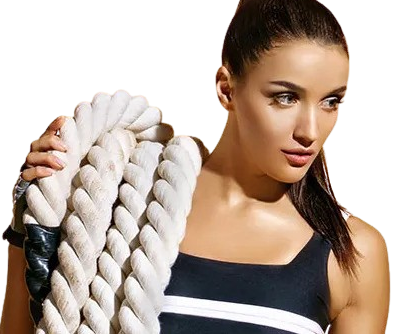
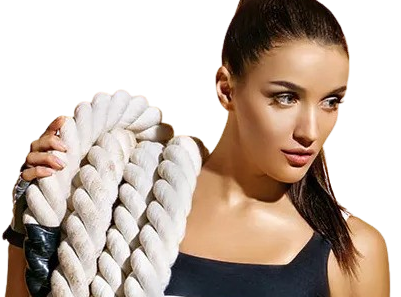
a4 changes done

diff --git a/Html CSS Assignments/Assignment 4/Task 1/style.css b/Html CSS Assignments/Assignment 4/Task 1/style.css
@@ -89,7 +89,7 @@ main{
     display: flex;
     flex-direction: column;
     justify-content: center;
-    gap: 15px;
+    gap: 10px;
     margin-left: 25px;
     margin-top: 10px;
 }
@@ -100,8 +100,11 @@ main{
     width: 80px;
     height: 50px;
 }
+.download-btn{
+    display: flex;
+}
 .download-btn img{
-    width: 145px;
+    width: 125px;
     height: 50px;
 }
 
@@ -113,9 +116,9 @@ main{
 .sub-center-top2{
     display: flex;
     flex-direction: column;
-    gap: 18px;
-    margin-left: 30px;
-    margin-top: 20px;
+    gap: 10px;
+    margin-left: 20px;
+    margin-top: 16px;
 }
 .heading-box1 p{
     font-size: 15px;
@@ -180,9 +183,9 @@ main{
 .sub-right-top{
     display: flex;
     flex-direction: column;
-    gap: 20px;
-    margin-left: 45px;
-    margin-top: 30px;
+    gap: 10px;
+    margin-left: 25px;
+    margin-top: 20px;
 }
 .right-color-box{
     display: flex;
@@ -199,10 +202,14 @@ main{
 .sub-right-top .head{
     display: flex;
     gap: 12px;
+    margin-left: 10px;
 }
 .sub-right-top .head p{
     font-size: 15px;
     font-weight: 600;
+}
+.sub-right-top .mid{
+    margin-left: 10px;
 }
 .sub-right-top .mid h1{
     font-size: 45px;
@@ -240,9 +247,9 @@ main{
 .sub-left-center{
     display: flex;
     flex-direction: column;
-    gap: 10px;
+    gap: 5px;
     margin-left: 25px;
-    margin-top: 15px;
+    margin-top: 10px;
 }
 .sub-left-center h2{
     line-height: 23px;
@@ -281,31 +288,29 @@ main{
 }
 .sub-left-btm{
     display: flex;
-    gap: 50px;
+    gap: 30px;
     margin-left: 25px;
     margin-top: 15px;
 }
 .trainer-profile{
     background-color: black;
-    height: 148px;
-    width: 260px;
+    height: 135px;
+    width: 245px;
     border-radius: 20px;
 
 } 
 .trainer-profile img{
-    width: 175px;
-    height: 123.5px;
+    width: 170px;
+    height: 112.5px;
     zoom:1.2;
 }
 .trainer-box{
-    margin-top: 5px;
     display: flex;
     flex-direction: column;
-    gap: 10px;
 }
 .sub-trainer-box{
     display: flex;
-    gap: 30px;
+    gap: 20px;
 }
 .tariner-count h1{
     font-size: 45px;
@@ -349,8 +354,8 @@ main{
 }
 .center-btm img{
     position: absolute;
-    width: 215px;
-    left: 15%;
+    width: 217px;
+    left: 11%;
 }
 
 
@@ -389,6 +394,6 @@ main{
 }
 .mobile{
     position: absolute;
-    left: 15%;
+    left: 10%;
     width: 250px;
 }

diff --git a/Html CSS Assignments/Assignment 4/Task 1/index.html b/Html CSS Assignments/Assignment 4/Task 1/index.html
@@ -41,7 +41,7 @@
         <div class="center-top1">
             <div class="sub-center-top1">
                 <img id="music" src="./Assets/music.png" alt="">
-                <h3>USE OUR APP FOR <br>COMPILING A QUALITY <br> WORKOUT!</h3>
+                <h3>USE OUR APP FOR COMPILING <br>A QUALITY WORKOUT!</h3>
                 <div class="download-btn">
                     <img src="./Assets/google-play.png" alt="">
                     <img src="./Assets/apple-store.png" alt="">

diff --git a/Html CSS Assignments/Assignment 4/Live_link.md b/Html CSS Assignments/Assignment 4/Live_link.md
@@ -1,0 +1,1 @@
+Task 1 : https://aditi173ras-a4-flexfit.vercel.app/